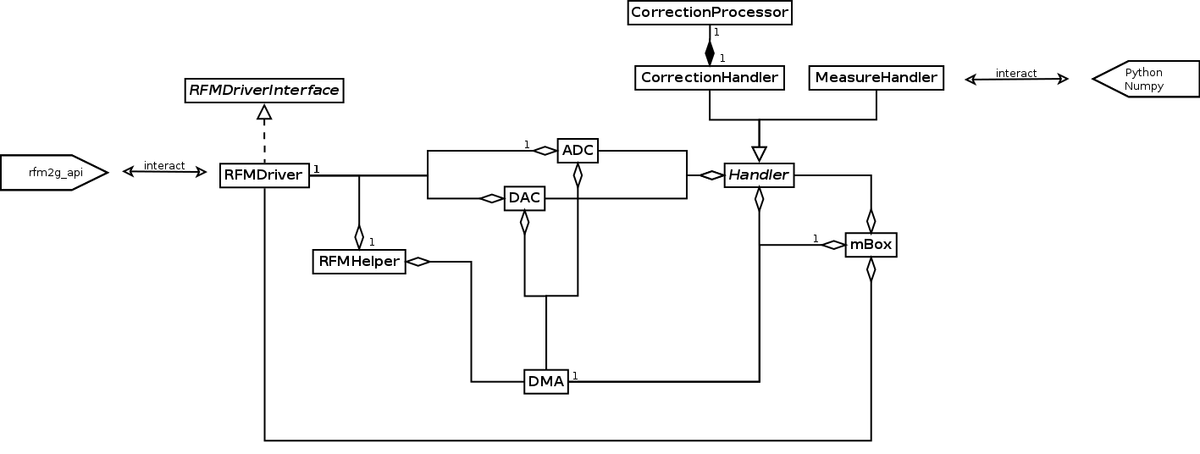
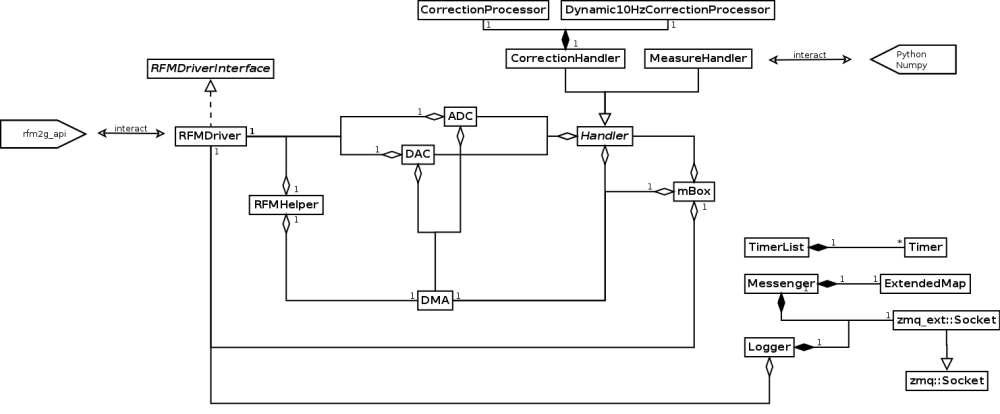
update doc

diff --git a/src/modules/zmq/logger.h b/src/modules/zmq/logger.h
@@ -35,7 +35,41 @@ enum class LogValue {
     ADC
 };
 /**
- * \addtogroup
+ * @brief Logging Namespace.
+ *
+ * The subscribers can subscribe to
+ *  * FOFB-ADC-DATA, FOFB-BPM-DATA, FOFB-CM-DATA
+ *  * LOG
+ *  * ERROR
+ *
+ * The 3 first (type values) are composed of:
+ *  0. the header (FOFB-XXX-DATA)
+ *  1. the loop position (int between 0 and 512)
+ *  2. the type of data ('short' if ADC, else 'double')
+ *  3. Array of data (x-axis if BPM or CM)
+ *  4. Array of data (only if BPM or CM: y-axis)
+ *
+ * LOG and ERROR are composed of:
+ *  0. the header ('LOG' or 'ERROR')
+ *  1. the time of emission
+ *  2. The message
+ *  3. Sometimes a secondary message (in ERROR: function where it happened)
+ *
+ * To log an info:
+ * \code{.cpp}
+ *      Logger::Logger() << "This is a log line";
+ * \endcode
+ *
+ * To log an error:
+ * \code{.cpp}
+ *      Logger::error(_ME_) << "This is an error description";
+ * \endcode
+ *
+ * To output data (here CM):
+ * \code{.cpp}
+ *      Logger::values(LogValue::CM, m_dma->status()->loopPos, std::vector<arma::vec>({CMx, CMy}));
+ * \endcode
+ *
  */
 namespace Logger {
 
@@ -47,14 +81,17 @@ struct log_stream_t {
 };
 
 /**
- * @class Logger
+ * @brief Class to deal with logs and errors
+ *
+ * Can be called directly as
+ * ~~~~{.cpp}
+ * Logger::Logger() << "This is a log line
+ * ~~~~
+ * The log is output at destruction of the object.
  *
  * Relies on some static variables (m_debug, m_port, m_socket, m_driver).
  *
- * @note Use it as:
- * \code{.cpp}
- *      Logger::Logger() << "This is an log line";
- * \endcode
+ * @see See \ref #Logger to see  more detailled information.
  */
 class Logger
 {
@@ -230,7 +267,7 @@ void values(LogValue name, const int loopPos, const std::vector<T> values)
  * @param fctname Name of the function in which is the error.
  * @return Stream Logger::m_logStream.message;
  *
- * @note Use it as:
+ * Use it as:
  * \code{.cpp}
  *      Logger::error(_ME_) << "This is an error;
  * \endcode

diff --git a/src/modules/timers.h b/src/modules/timers.h
@@ -8,6 +8,8 @@
 
 /**
  * @brief Timer that holds various arithmetic values to profile functions.
+ *
+ * @see See TimingModule for a more comprehensive use
  */
 class Timer
 {
@@ -135,14 +137,31 @@ private:
 };
 
 /**
- * @brief Namespace for Timing static functions
+ * @brief Namespace for Timing static functions.
+ *
+ * To start a timer call
+ * ~~~~.cpp
+ * TimingModule::addTimer("name_of_timer");
+ * ~~~~
+ * To stop it:
+ * ~~~~.cpp
+ * TimingModule::timer("name_of_timer").stop();
+ * ~~~~
+ * To print its values in ms:
+ * ~~~~.cpp
+ * TimingModule::timer("name_of_timer").print(Timer::Unit::ms);
+ * ~~~~
+ * To print all Timer values in ms every 1000 loops:
+ * ~~~~.cpp
+ * TimingModule::printAll(Timer::Unit::ms, 1000);
+ * ~~~~
  */
 namespace TimingModule {
     extern TimerList tm;
 
     /**
      * @brief Global wrapper to TimeList::addTimer() function
-     * @param name Name of the new Timer to create.
+     * @param name Name of the new Timer to create or to restart
      */
     inline void addTimer(const std::string& name) {
         if (tm.count(name) > 0) {

diff --git a/python_tools/tenHz.py b/python_tools/tenHz.py
@@ -110,12 +110,12 @@ if __name__=="__main__":
     phY = np.angle(CorrY)
 
 #    plt.figure()
-    t = np.arange(SAMPLE_NB)/150
-    #plt.plot(t, sin10)
-    #plt.plot(t, amp10*np.cos(2*np.pi*10*t+ph10))
-    #plt.plot(t, ampc*np.cos(2*np.pi*10*t)+amps*np.sin(2*np.pi*10*t))
-    #plt.plot(t, acos*np.cos(2*np.pi*10*t)+asin*np.sin(2*np.pi*10*t))
-    #plt.show()
+#    t = np.arange(SAMPLE_NB)/150
+#    plt.plot(t, sin10)
+#    plt.plot(t, amp10*np.cos(2*np.pi*10*t+ph10))
+#    plt.plot(t, ampc*np.cos(2*np.pi*10*t)+amps*np.sin(2*np.pi*10*t))
+#    plt.plot(t, acos*np.cos(2*np.pi*10*t)+asin*np.sin(2*np.pi*10*t))
+#    plt.show()
 
     ans = pack.unpack_string(sreq.tell('SET AMPLITUDE-REF-10',
                                        pack.pack_double(amp10)))

diff --git a/README.md b/README.md
@@ -4,6 +4,7 @@
  * [How to run](#run-howto)
  * [Dependencies](#deps)
  * [How to compile](#compile-howto)
+ * [How to generate the documentation] (#docu)
  * [Class organization](#diagram)
 
 ## <a name="run-howto"></a> How to run
@@ -75,6 +76,17 @@ To install for the user only (no root needed), add to the cmake command the
 following argument (or anything relevant):
 
     -DCMAKE_INSTALL_PREFIX=$HOME/.local
+
+## <a name="docu"></a> How to generate the documentation
+
+Go to the root of the project and generate the documentation
+
+    cd path/to/mBox++
+    doxygen doxygen.conf
+
+The documentation is generated in `doc/html/index.html`
+
+To genereate the LaTeX documentation, go to `doc/latex` and run `make`.
 
 ## <a name="diagram"></a> Class organization
 
